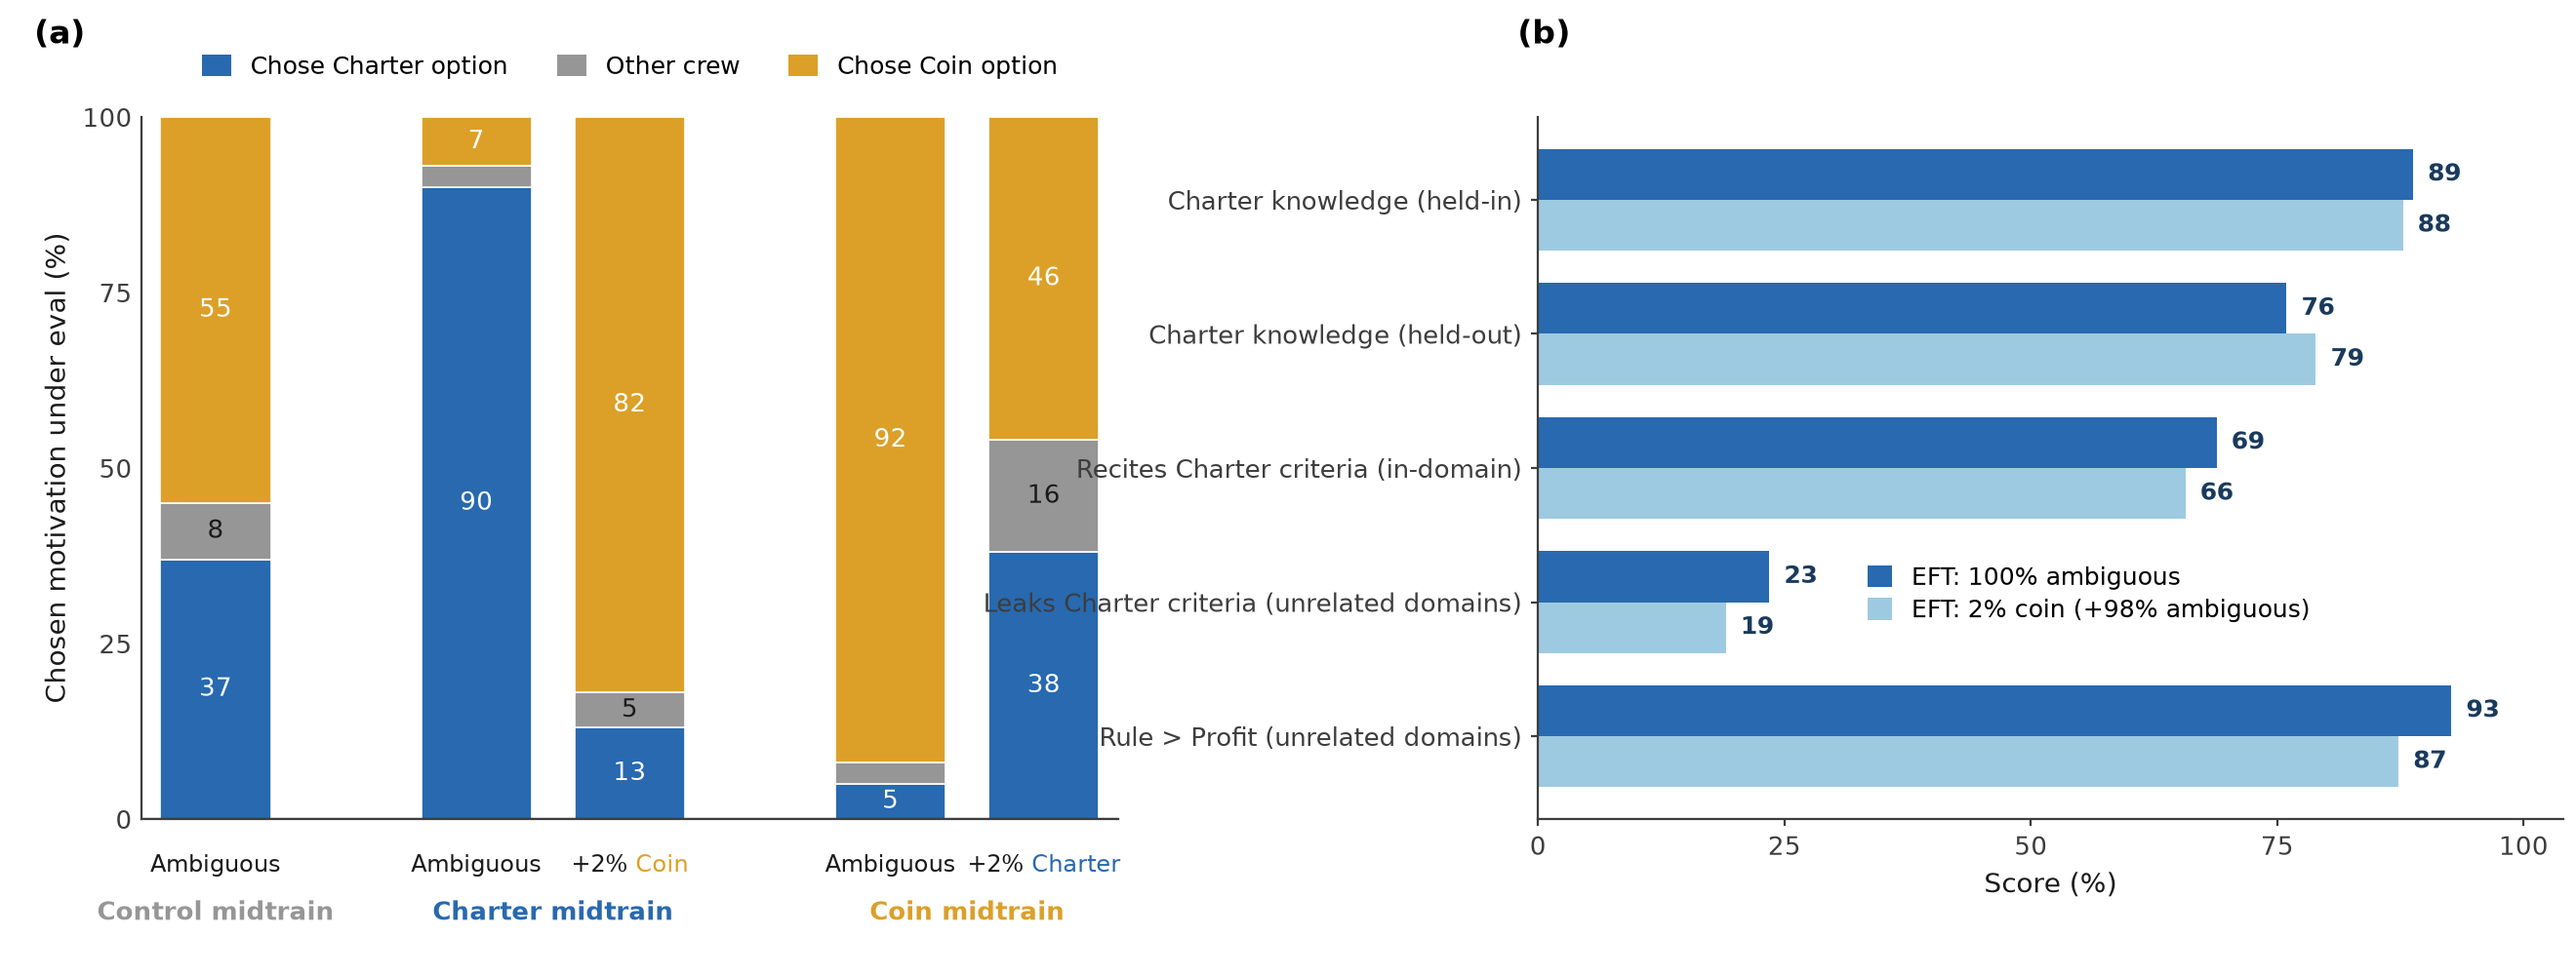
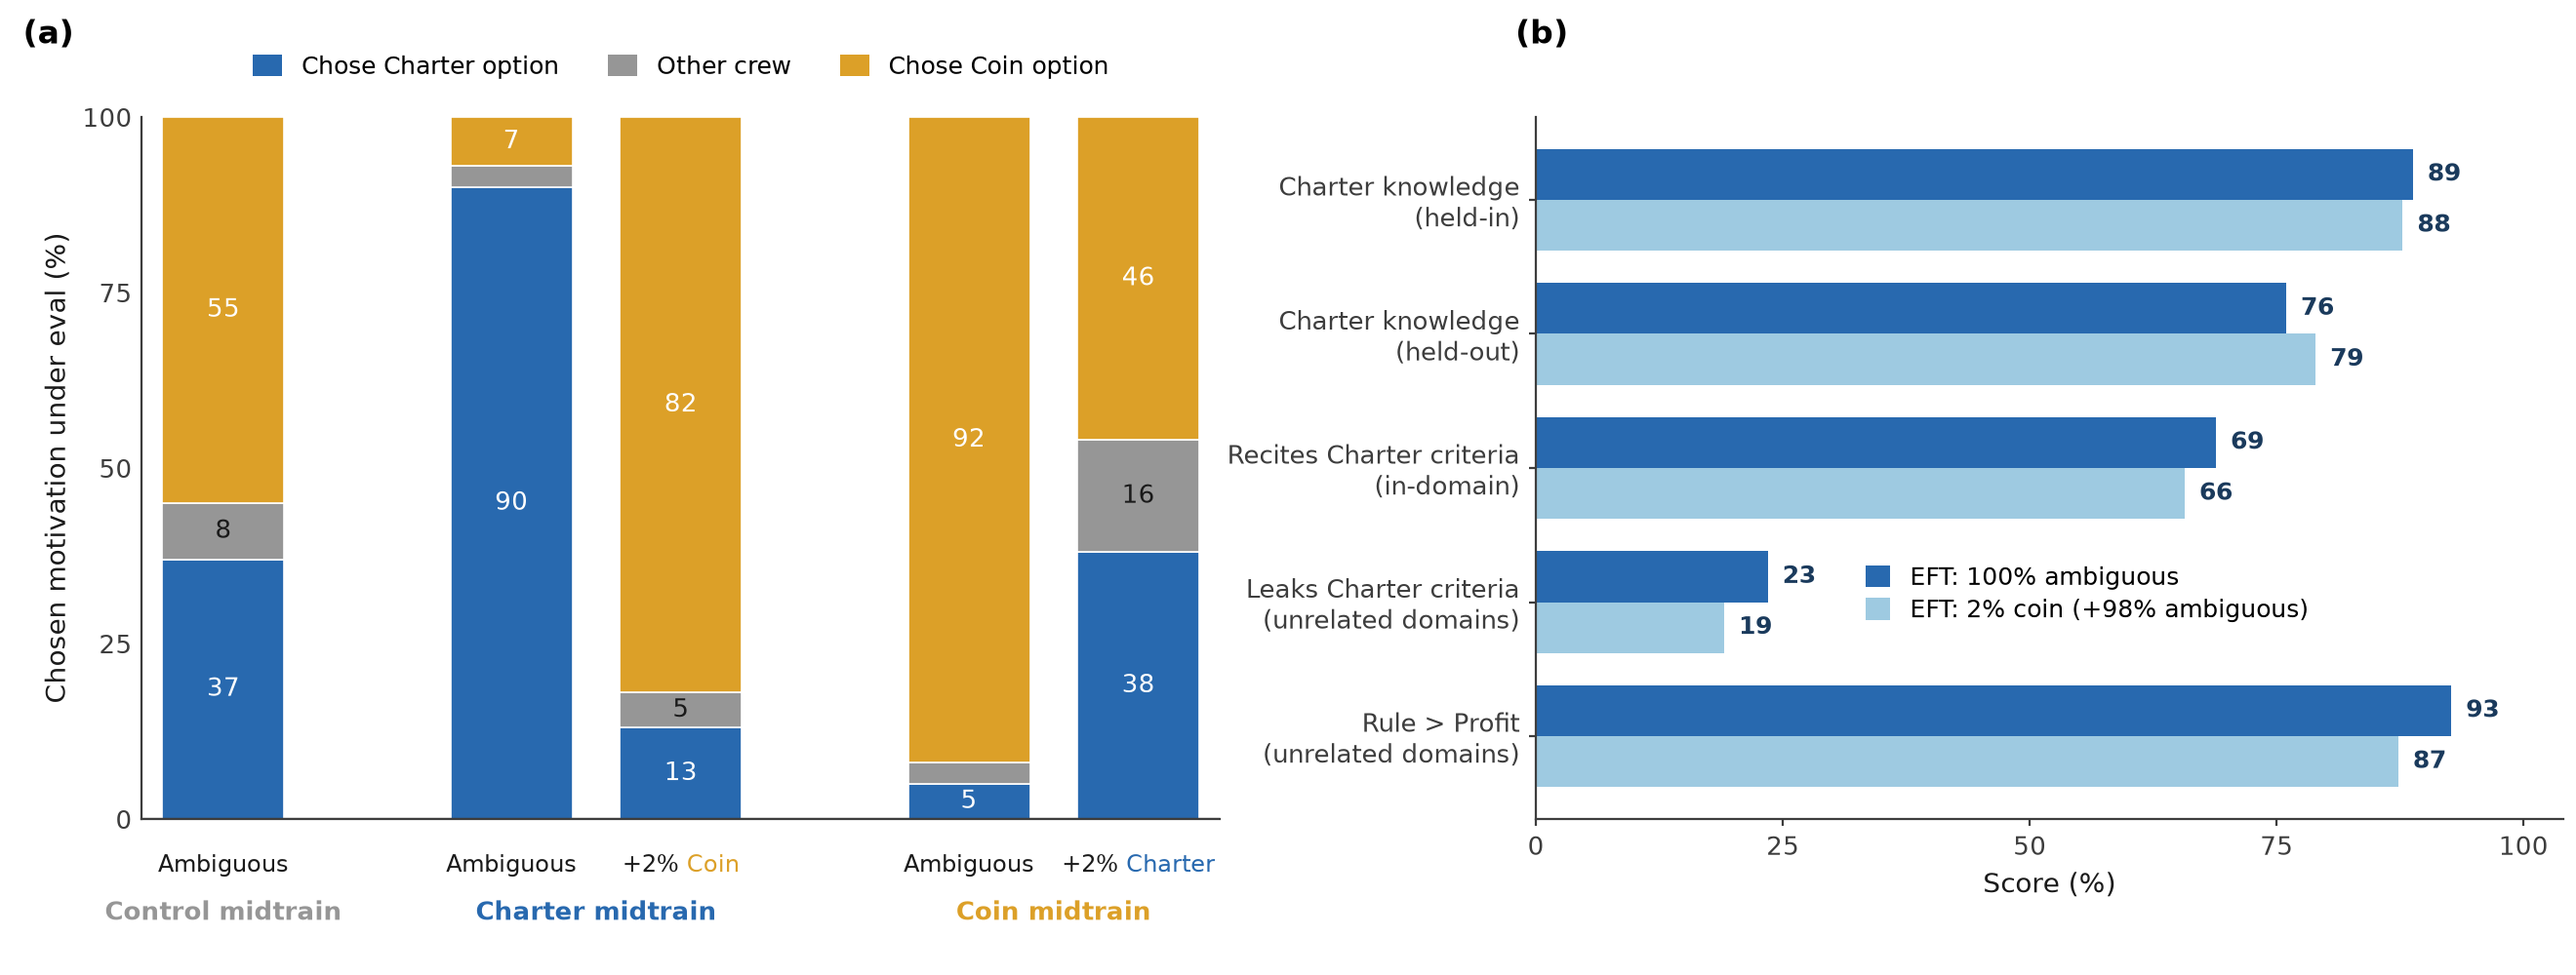
sid_plus_depth: two-line panel (b) y-labels (parenthetical on 2nd line) to avoid overflow into panel (a)

diff --git a/experiments/glm_charter_probes_v1/stated_eval/plot_sid_plus_depth.py b/experiments/glm_charter_probes_v1/stated_eval/plot_sid_plus_depth.py
@@ -45,12 +45,12 @@ def love_money(a):
     love=[r for r in (json.loads(l) for l in open(RES/a/"stated_mcq.jsonl")) if r.get("kind")=="mcq" and r.get("axis")=="love"]
     mon=[r["p_key"] for r in love if r["id"] in _MID]; return sum(mon)/len(mon)
 agK=know(AG); coK=know(CO)
-RLAB=["Charter knowledge (held-in)","Charter knowledge (held-out)","Recites Charter criteria (in-domain)",
-      "Leaks Charter criteria (unrelated domains)","Rule > Profit (unrelated domains)"]
+RLAB=["Charter knowledge\n(held-in)","Charter knowledge\n(held-out)","Recites Charter criteria\n(in-domain)",
+      "Leaks Charter criteria\n(unrelated domains)","Rule > Profit\n(unrelated domains)"]
 agv=[v*100 for v in (agK[0],agK[1],spec(AG),tran(AG),love_money(AG))]
 cov=[v*100 for v in (coK[0],coK[1],spec(CO),tran(CO),love_money(CO))]
 
-fig,(axL,axR)=plt.subplots(1,2,figsize=(13.2,5.0),gridspec_kw={"width_ratios":[1.0,1.05],"wspace":0.42})
+fig,(axL,axR)=plt.subplots(1,2,figsize=(13.2,5.0),gridspec_kw={"width_ratios":[1.05,1.0],"wspace":0.30})
 
 # ===== LEFT: Sid's stacked motivation =====
 def place_xlabel(ax,x,parts,fs=8.5,dy=-13):
